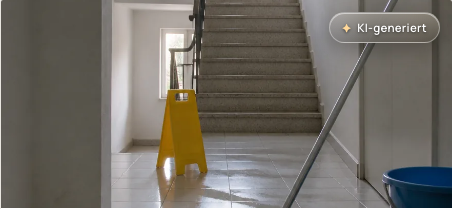
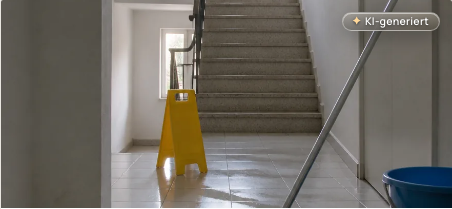
KI-Badge kompakter: schmalere Pille, weniger Luft oben und unten
Gemessen am Hero-Badge: 128,3 × 26,0 px vorher, jetzt 98,2 × 18,6 px — also
23 % schmaler und 29 % flacher.

`leading-none` ist dabei der entscheidende Teil: Ohne das bleibt die Pille
trotz kleinerer Padding-Werte hoch, weil die Zeilenbox den Innenraum
aufspannt und das Padding nur obendrauf kommt.

Auf dem fast weißen Treppenhausbild gegengeprüft — bei der kleineren Schrift
trägt der Textschatten die Lesbarkeit weiterhin.

Changed region(s): [[0.7434, 0.0574, 0.9912, 0.2297], [0.7434, 0.0574, 0.7743, 0.0861], [0.7124, 0.0861, 0.7434, 0.1148]]

diff --git a/components/ai/ai-media-badge.tsx b/components/ai/ai-media-badge.tsx
@@ -67,8 +67,12 @@ export function AiMediaBadge({
     <span
       data-ai-badge={assetId}
       className={cn(
-        "pointer-events-none absolute z-20 flex items-center gap-1.5 rounded-full",
-        "px-3 py-1.5 text-[0.72rem] font-semibold tracking-wide text-white",
+        "pointer-events-none absolute z-20 flex items-center gap-1 rounded-full",
+        // Kompakt gehalten: Schrift und Innenabstände rund 20 % kleiner als
+        // zuvor, senkrecht bewusst noch etwas enger. `leading-none` nimmt die
+        // Zeilenbox-Luft raus — ohne das bliebe die Pille trotz kleinerer
+        // Werte hoch, weil die Zeilenhöhe den Innenraum aufspannt.
+        "px-2.5 py-[3px] text-[0.66rem] leading-none font-semibold tracking-wide text-white",
         // Textschatten: hält die Schrift auch dort lesbar, wo unter dem Glas
         // eine sehr helle Stelle liegt (weiße Fassade, Treppenhauswand).
         "[text-shadow:0_1px_3px_rgba(0,0,0,0.55)]",
@@ -76,7 +80,7 @@ export function AiMediaBadge({
         POSITION_CLASSES[position],
       )}
     >
-      <span aria-hidden="true" className="text-[0.68rem] text-[#ffd89a]">
+      <span aria-hidden="true" className="text-[0.62rem] leading-none text-[#ffd89a]">
         ✦
       </span>
       {label}
